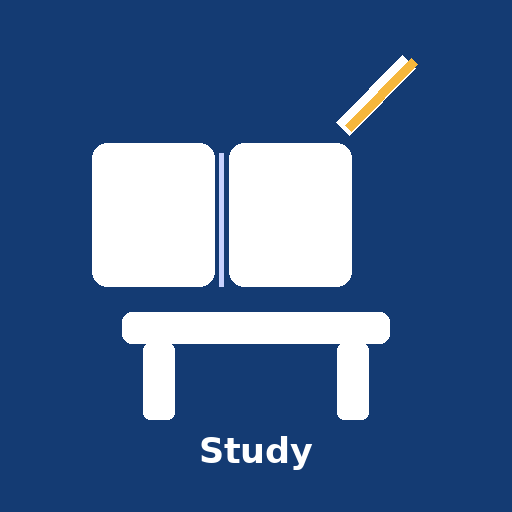
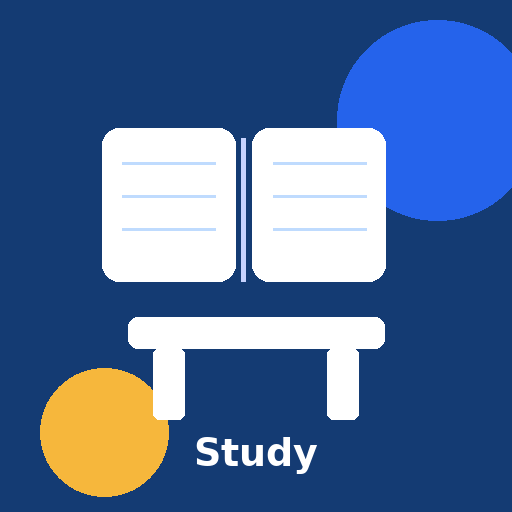
Add files via upload

diff --git a/sw.js b/sw.js
@@ -1,7 +1,5 @@
-const CACHE_NAME = 'study-room-v9';
+const CACHE_NAME = 'study-room-v8-pwa-safe-20260706';
 const ASSETS = [
-  './',
-  './index.html',
   './manifest.webmanifest',
   './icons/icon-192.png',
   './icons/icon-512.png',
@@ -23,7 +21,15 @@ self.addEventListener('activate', event => {
 self.addEventListener('fetch', event => {
   const request = event.request;
   if (request.method !== 'GET') return;
+
+  if (request.mode === 'navigate' || request.url.endsWith('/index.html')) {
+    event.respondWith(
+      fetch(request).catch(() => caches.match('./index.html'))
+    );
+    return;
+  }
+
   event.respondWith(
-    caches.match(request).then(cached => cached || fetch(request).catch(() => caches.match('./index.html')))
+    caches.match(request).then(cached => cached || fetch(request))
   );
 });